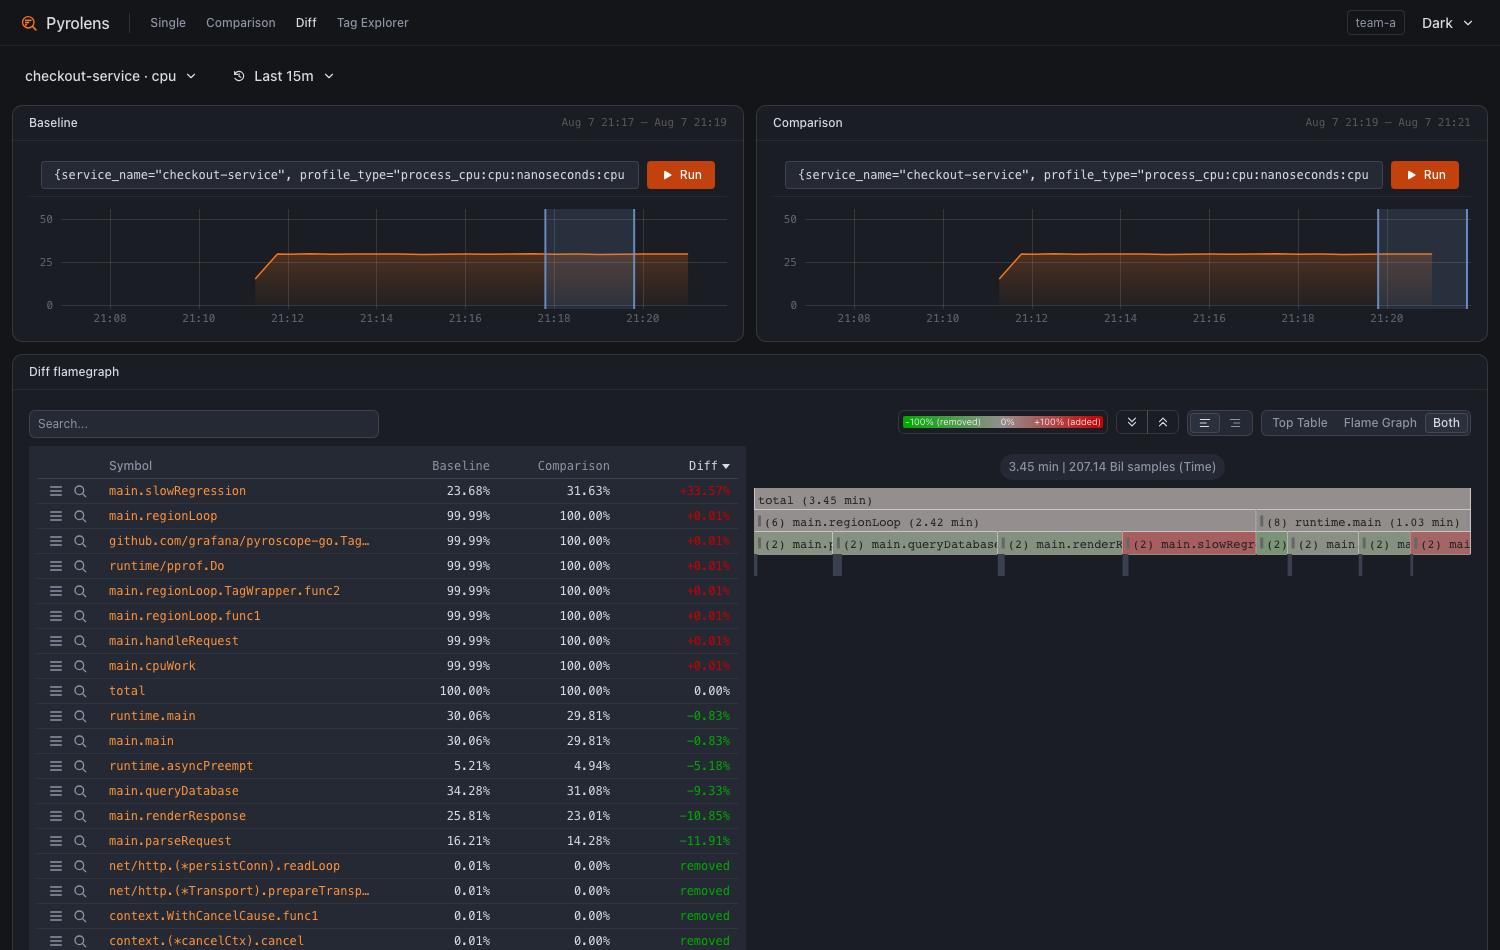
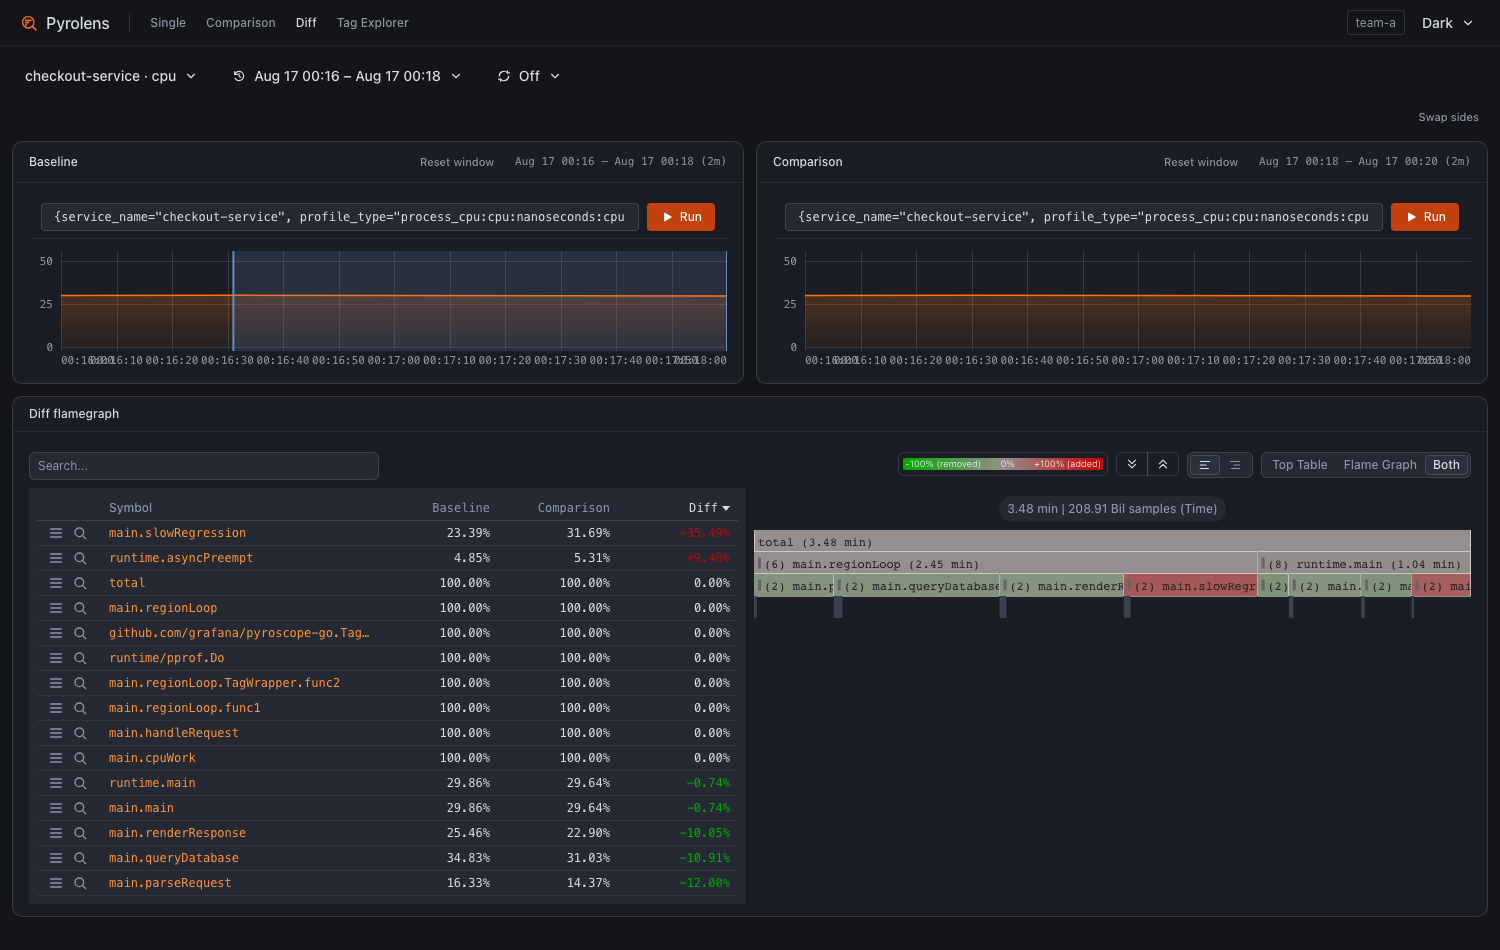
README: refresh the screenshots to the current UI, and round out the intro
The four screenshots predated everything v0.1.0 added — no refresh
picker, no pane-window headers, no panel actions, no sortable
breakdown. Retaken against the dev environment with the loadgen's
wall-clock phase fix in effect, which is what makes the Diff shot's
minute-aligned windows land cleanly on a quiet minute versus a
regression minute (slowRegression tops the table at +35.49%; the
caption now matches the picture it sits next to).

The intro's "things the old UI never had" list gains the Grafana
muscle-memory bullet (shortcuts, t c / t v clipboard interop,
auto-refresh) and the URL bullet now mentions flame-graph search and
sandwich state, both of which the text below already documented.

diff --git a/README.md b/README.md
@@ -20,9 +20,10 @@ full analysis experience into Grafana (Profiles Drilldown). This project
 brings the classic workflow back, plus a few things the old UI never had:
 
 - **Everything is in the URL.** Tenant, query, time ranges, comparison
-  selections, group-by label — copy the address bar and a teammate sees the
-  exact same screen. (The classic UI kept the tenant out of the URL, which
-  made sharing queries in multi-tenant setups painful.)
+  selections, group-by label, even the flame graph's search text and
+  sandwich selection — copy the address bar and a teammate sees the exact
+  same screen. (The classic UI kept the tenant out of the URL, which made
+  sharing queries in multi-tenant setups painful.)
 - **First-class multi-tenancy.** The tenant is a `tenant` URL param sent as
   `X-Scope-OrgID`; switch tenants from the nav bar. No per-tenant data
   sources to manage.
@@ -38,11 +39,15 @@ brings the classic workflow back, plus a few things the old UI never had:
   shows the time window it actually resolved to, marked "first half" /
   "second half" while it's still the implicit default; brushing or
   deep-linking a window adds a "Reset window" button back to that default.
+- **Grafana muscle memory.** `y` / `t a` / `t z` / `t ←` / `t →` keyboard
+  shortcuts, `t c` / `t v` copying time ranges to and from Grafana in its
+  own clipboard format, and an auto-refresh picker (`refresh=30s`, in the
+  URL like everything else).
 
 ## The views
 
 **Diff** — what got slower between two windows, ranked. Here an extra
-`slowRegression` frame shows up as `+33.57%`.
+`slowRegression` frame shows up as `+35.49%`.
 
 ![Diff view](docs/screenshots/diff-dark.png)
 
